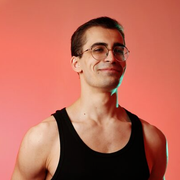
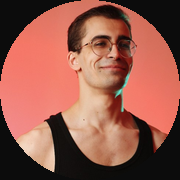
Собрать опенграф и круглый фавикон с лицом Антона.
Превью для ссылок и иконки сайта теперь из актуального портрета.

diff --git a/index.html b/index.html
@@ -44,6 +44,7 @@
     <meta name="twitter:image:alt" content="Антон Кугук, видеограф в Москве">
 
     <link rel="icon" href="favicon.svg" type="image/svg+xml">
+    <link rel="icon" href="assets/favicon-32.png" type="image/png" sizes="32x32">
     <link rel="apple-touch-icon" href="assets/apple-touch-icon.png">
     <link rel="manifest" href="site.webmanifest">
     <link rel="preload" as="image" href="assets/anton.jpg" fetchpriority="high">
